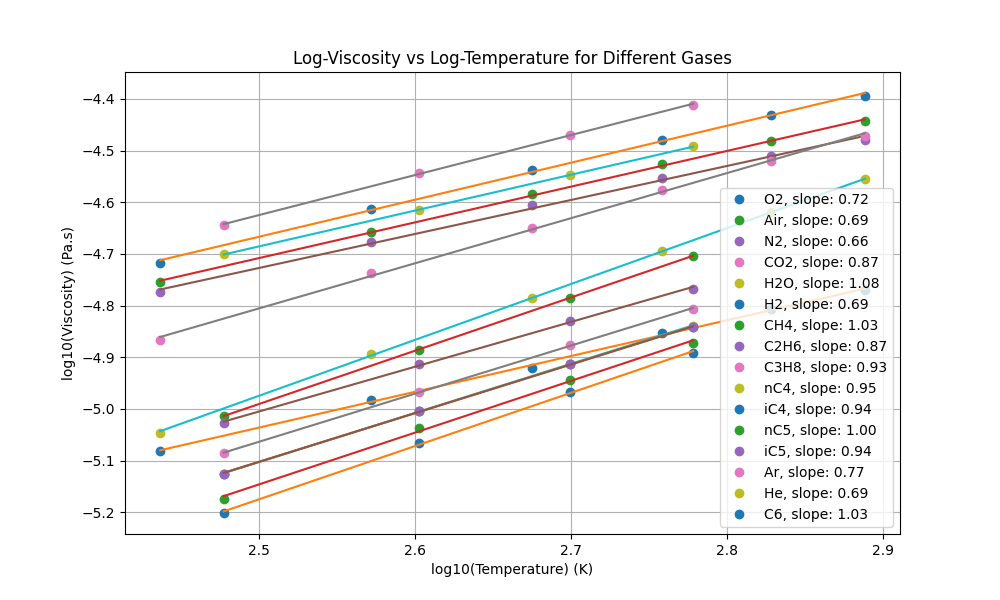
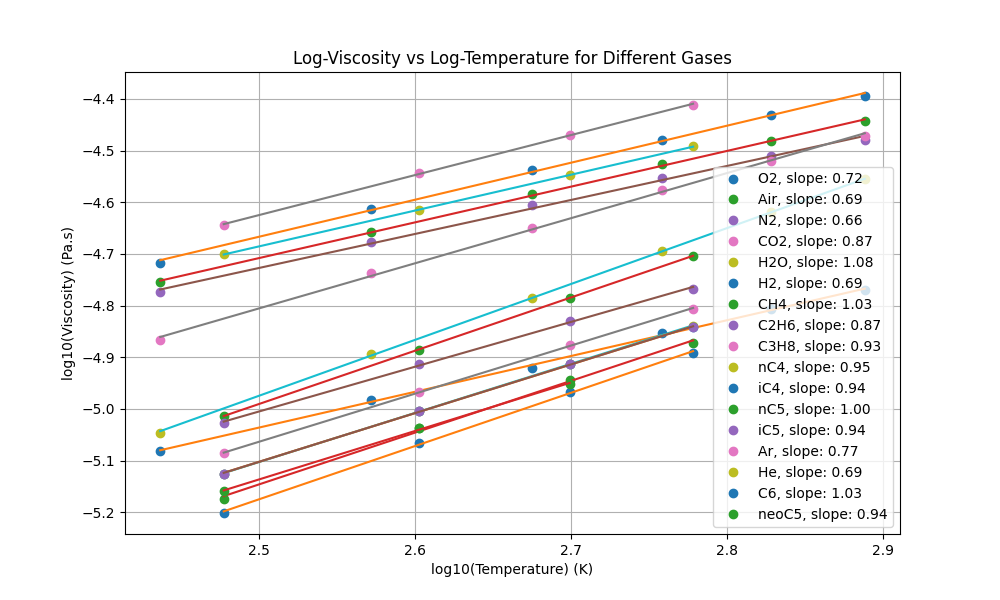
with dimethylpropane (neopentane) in mixture D11 NatGas

diff --git a/peng.py b/peng.py
@@ -37,7 +37,7 @@ T273 = 273.15
 # HHV in mJ/M3
 # Wb is Wobbe index: MJ/m3
 # RD is relative density (air is  1)
-# Vs is viscosity and temp. f measurement as tuple (microPa.s, K)
+# Vs is viscosity and temp. f measurement as tuple (microPa.s, K, exponent(pressure))
 # All viscosities from marcia l. huber and allan h. harvey,
 #https://tsapps.nist.gov/publication/get_pdf.cfm?pub_id=907539
 
@@ -52,7 +52,12 @@ gas_data = {
     'nC4': {'Tc': 425, 'Pc': 38,  'omega': 0.20081, 'Mw': 58.1222, 'Vs': (7.5,300, 0.950), 'Hc':2-877.5}, # omega http://www.coolprop.org/fluid_properties/fluids/n-Butane.html https://www.engineeringtoolbox.com/butane-d_1415.html 
     'iC4': {'Tc': 407.7, 'Pc': 36.5, 'omega': 0.1835318, 'Mw': 58.1222, 'Vs': (7.5,300, 0.942)}, # omega  http://www.coolprop.org/fluid_properties/fluids/IsoButane.html https://webbook.nist.gov/cgi/cbook.cgi?ID=C75285&Mask=1F https://webbook.nist.gov/cgi/cbook.cgi?Name=butane&Units=SI Viscocity assumed same as nC4
     'nC5': {'Tc': 469.8, 'Pc': 33.6, 'omega': 0.251032, 'Mw': 72.1488, 'Vs': (6.7,300, 1.0)}, # omega http://www.coolprop.org/fluid_properties/fluids/n-Pentane.html     
-    'iC5': {'Tc': 461.0, 'Pc': 33.8, 'omega': 0.2274, 'Mw': 72.1488, 'Vs': (6.7,300, 0.94)}, # omega http://www.coolprop.org/fluid_properties/fluids/Isopentane.html  Viscocity assumed same as nC5    
+    'iC5': {'Tc': 461.0, 'Pc': 33.8, 'omega': 0.2274, 'Mw': 72.1488, 'Vs': (6.7,300, 0.94)}, # omega http://www.coolprop.org/fluid_properties/fluids/Isopentane.html  Viscocity assumed same as nC5 
+    
+    'neoC5': {'Tc': 433.8, 'Pc': 31.963, 'omega': 0.1961, 'Mw': 72.1488, 'Vs': (6.9326,300, 0.937)},
+    # https://webbook.nist.gov/cgi/cbook.cgi?ID=C463821&Units=SI&Mask=4#Thermo-Phase
+    # omega from http://www.coolprop.org/fluid_properties/fluids/Neopentane.html
+    
     'C6':  {'Tc': 507.6, 'Pc': 30.2, 'omega': 0.1521, 'Mw': 86.1754, 'Vs': (8.6,400, 1.03)}, # omega is 0.2797 isohexane    
     'CO2': {'Tc': 304.2, 'Pc': 73.8, 'omega': 0.228, 'Mw': 44.01, 'Vs': (15.0,300, 0.872)}, # https://en.wikipedia.org/wiki/Acentric_factor
     'H2O': {'Tc': 647.1, 'Pc': 220.6, 'omega': 0.344292, "Mw": 18.015, 'Vs': (9.8,300, 1.081)}, # https://link.springer.com/article/10.1007/s10765-020-02643-6/tables/1
@@ -67,25 +72,26 @@ gas_data = {
 
 # Natural gas compositions (mole fractions)
 gas_mixtures = {
-    'GG': {'CH4': 0.81.3, 'C2H6': 0.0285, 'C3H8': 0.0037, 'nC4': 0.0014, , 'nC5': 0.0004, 'C6': 0.0006, 'CO2': 0.0089, 'N2': 0.1435, 'O2': 0.0001}, # Groeningen gas https://en.wikipedia.org/wiki/Groningen_gas_field
+    'GG': {'CH4': 0.813, 'C2H6': 0.0285, 'C3H8': 0.0037, 'nC4': 0.0014, 'nC5': 0.0004, 'C6': 0.0006, 'CO2': 0.0089, 'N2': 0.1435, 'O2': 0.0001}, # Groeningen gas https://en.wikipedia.org/wiki/Groningen_gas_field
     
     #'Wobbe mix': {'CH4': 0.9,  'C3H8': 0.04,  'N2': 0.06}, # wobbe central, not a real natural gas  https://www.gasgovernance.co.uk/sites/default/files/ggf/Impact%20of%20Natural%20Gas%20Composition%20-%20Paper_0.pdf
     
-    #'mix6': {'CH4': 0.8, 'C2H6': 0.05, 'C3H8': 0.03, 'CO2': 0.02, 'N2': 0.10}, # ==mix6 from      https://backend.orbit.dtu.dk/ws/files/131796794/FPE_D_16_00902R1.pdf
+    #'mix6': {'CH4': 0.8, 'C2H6': 0.05, 'C3H8': 0.03, 'CO2': 0.02, 'N2': 0.10}, # ==mix6 from      https://backend.orbit.dtu.dk/ws/files/131796794/FPE_D_16_00902R1.pdf - no, somewhere else..
 
-    'NTS': {'CH4': 0.9363, 'C2H6': 0.0325, 'C3H8': 0.0069, 'nC4': 0.0027, 'CO2': 0.0013, 'N2': 0.0178, 'He': 0.0005, 'nC5': 0.002}, # https://en.wikipedia.org/wiki/National_Transmission_System
+    'NTS79': {'CH4': 0.9363, 'C2H6': 0.0325, 'C3H8': 0.0069, 'nC4': 0.0027, 'CO2': 0.0013, 'N2': 0.0178, 'He': 0.0005, 'nC5': 0.002}, # https://en.wikipedia.org/wiki/National_Transmission_System
     # This NTS composition from Wikipedia actually comes from 1979 !  Cassidy, Richard (1979). Gas: Natural Energy. London: Frederick Muller Limited. p. 14.
     
+    'NatGas': {'CH4': 0.88621, 'C2H6': 0.04046, 'C3H8': 0.009944, 'iC4': 0.002017, 'nC4': 0.002020, 'iC5': 0.000501, 'nC5': 0.0005, 'neoC5': 0.000502,  'C6': 0.000485, 'CO2': 0.015084, 'N2': 0.039866, 'He': 0}, # This is 11D gas from Duchowny22, doi:10.1016/j.egyr.2022.02.289
+   
     #'Algerian': {'CH4': 0.86486, 'C2H6': 0.08788, 'C3H8': 0.01179, 'iC4': 0.00085,  'nC4': 0.00107,
     #    'iC5': 0.00021, 'nC5': 0.00015,'C6': 0.00017,'CO2': 0.01894, 'N2': 0.01323, 'He': 0.00085}, # Algerian NG, Romeo 2022, C6+
          
-    'North Sea': {'CH4': 0.836, 'C2H6': 0.0748, 'C3H8':0.0392, 'nC4':0.0081, 'iC4':0.0081, 
-        'nC5':0.0015, 'iC5':0.0014, 'CO2':0.0114, 'N2':0.0195}, # North Sea gas [Hassanpou] https://www.ncbi.nlm.nih.gov/pmc/articles/PMC7347886/
+    'North Sea': {'CH4': 0.836, 'C2H6': 0.0748, 'C3H8':0.0392, 'nC4':0.0081, 'iC4':0.0081, 'nC5':0.0015, 'iC5':0.0014, 'CO2':0.0114, 'N2':0.0195}, # North Sea gas [Hassanpou] https://www.ncbi.nlm.nih.gov/pmc/articles/PMC7347886/
         
     # 'ethane': {'C2H6': 1.0}, # ethane, but using the mixing rules: software test check
     # 'propane': {'C3H8': 1.0}, # ethane, but using the mixing rules: software test check
     #'Air': {'N2': 0.78084, 'O2': 0.209476,  'CO2': 0.0004,  'Ar': 0.00934,  'He': 5.24e-06, 'H2O': 0.025}, 
-    'Air':  {'N2': 0.76175, 'O2': 0.204355, 'CO2': 0.00039, 'Ar': 0.009112, 'He': 5.11e-06, 'H2O': 0.024389}, # https://www.thoughtco.com/chemical-composition-of-air-604288
+    'Air':  {'N2': 0.76175, 'O2': 0.204355, 'CO2': 0.00039, 'Ar': 0.009112, 'He': 5.11e-06, 'H2O': 0.024389} # https://www.thoughtco.com/chemical-composition-of-air-604288
     # But ALSO adding 2.5% moisture to the air and normalising
 }
 
@@ -98,18 +104,18 @@ gas_mixture_properties = {
     'Algerian': {'Wb': 49.992, 'HHV': 39.841, 'RD': 0.6351} #Algerian NG, Romeo 2022, C6+
 }
 
-print(f"NTS gas composition")
-nts = gas_mixtures["NTS"]
+print(f"NTS79 gas composition")
+nts = gas_mixtures["NTS79"]
 for f in nts:
     print(f"{f:5} {nts[f]*100:6.3f} %")
 
 # 20% H2, remainder N.Sea gas. BUT may need adjusting to maintain Wobbe value, by adding N2 probably.
 fifth = {}
 fifth['H2'] = 0.2
-nsea = gas_mixtures['NTS']
-for g in nsea:
-    fifth[g] = nsea[g]*0.8
-gas_mixtures['NTS+20% H2'] = fifth
+ng = gas_mixtures['NatGas']
+for g in ng:
+    fifth[g] = ng[g]*0.8
+gas_mixtures['NatGas+20% H2'] = fifth
     
 # Binary interaction parameters for hydrocarbons for Peng-Robinson
 # based on the Chueh-Prausnitz correlation

diff --git a/visc-temp.py b/visc-temp.py
@@ -31,6 +31,8 @@ viscosity2 = { # in microPa.s
     'iC4': np.array([ 7.5, 9.9, 12.2, 14.4]),
     'nC5': np.array([ 6.7, 9.2, 11.4, 13.4]),
     'iC5': np.array([ 7.5, 9.9, 12.2, 14.4]),
+    
+    
     'Ar': np.array([ 22.7, 28.6, 33.9, 38.8]),
     'He': np.array([ 19.9, 24.3, 28.3, 32.2]),
     'C6': np.array([ 6.29, 8.6, 10.8, 12.82]), # 300 K for gaseous not liquid C6, at 0.218 bar. Close enough.
@@ -39,6 +41,14 @@ for gas, vis in viscosity2.items():
     vis = vis / 1e6 # Convert microPa.s to Pa.s
     viscosity2[gas] = vis
 
+temperature3 = np.array([300, 400, 500]) #degrees K
+viscosity3 = { # in microPa.s
+   'neoC5': np.array([6.9326, 9.1783, 11.18]), # not same source. 
+ }
+
+for gas, vis in viscosity3.items():
+    vis = vis / 1e6 # Convert microPa.s to Pa.s
+    viscosity3[gas] = vis
 
 # Plotting
 plt.figure(figsize=(10, 6))
@@ -56,6 +66,13 @@ for gas, vis in viscosity2.items():
     print(f"{gas:6}    {slope:.3f}  {intercept:.2f}  ({1e6*pow(10, intercept):.3f} μK)")
     plt.plot(np.log10(temperature2), np.log10(vis), 'o', label=f'{gas}, slope: {slope:.2f}')
     plt.plot(np.log10(temperature2), slope * np.log10(temperature2) + intercept, '-')
+    
+for gas, vis in viscosity3.items():
+    mask = [value is not None for value in vis] 
+    slope, intercept = np.polyfit(np.log10(temperature3[mask]), np.log10(vis[mask]), 1)
+    print(f"{gas:6}    {slope:.3f}  {intercept:.2f}  ({1e6*pow(10, intercept):.3f} μK)")
+    plt.plot(np.log10(temperature3), np.log10(vis), 'o', label=f'{gas}, slope: {slope:.2f}')
+    plt.plot(np.log10(temperature3), slope * np.log10(temperature3) + intercept, '-')
     
 plt.xlabel('log10(Temperature) (K)')
 plt.ylabel('log10(Viscosity) (Pa.s)')
